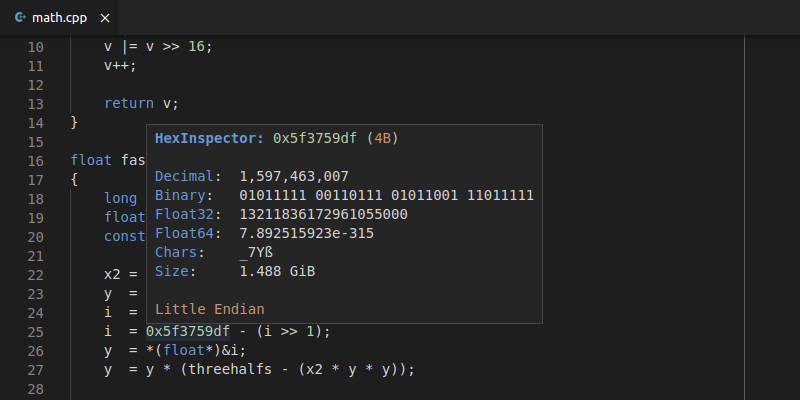
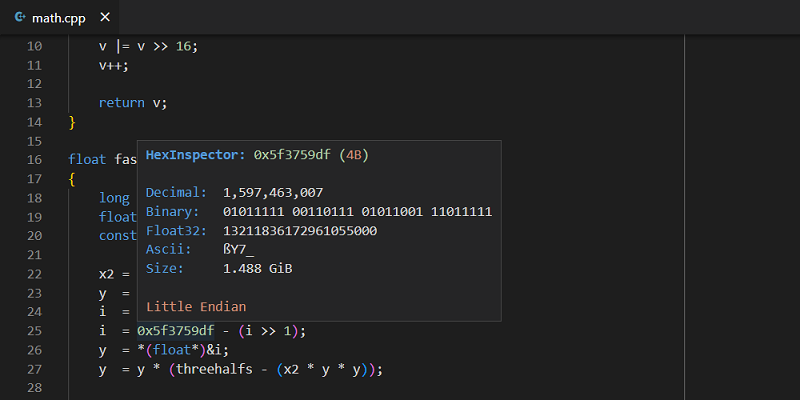
Update version, CHANGELOG.md and screenshot

diff --git a/CHANGELOG.md b/CHANGELOG.md
@@ -1,5 +1,13 @@
 # Change Log
 
+## [1.5.0] (2022-08-09)
+
+### Changed
+- Change endianness setting type from bool to string
+
+### Fixed
+- Support for big endianness
+
 ## [1.4.0] (2022-07-21)
 
 ### Added
@@ -83,6 +91,7 @@ Display a hover with following conversions of the pointed hexadecimal value:
 
 
 
+[1.5.0]: https://github.com/mateuszchudyk/vscode-hexinspector/compare/v1.4.0...v1.5.0
 [1.4.0]: https://github.com/mateuszchudyk/vscode-hexinspector/compare/v1.3.0...v1.4.0
 [1.3.0]: https://github.com/mateuszchudyk/vscode-hexinspector/compare/v1.2.0...v1.3.0
 [1.2.0]: https://github.com/mateuszchudyk/vscode-hexinspector/compare/v1.1.0...v1.2.0
